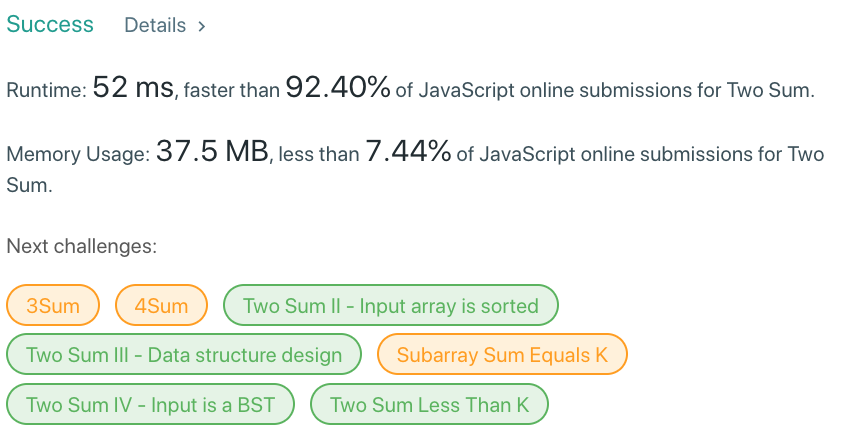
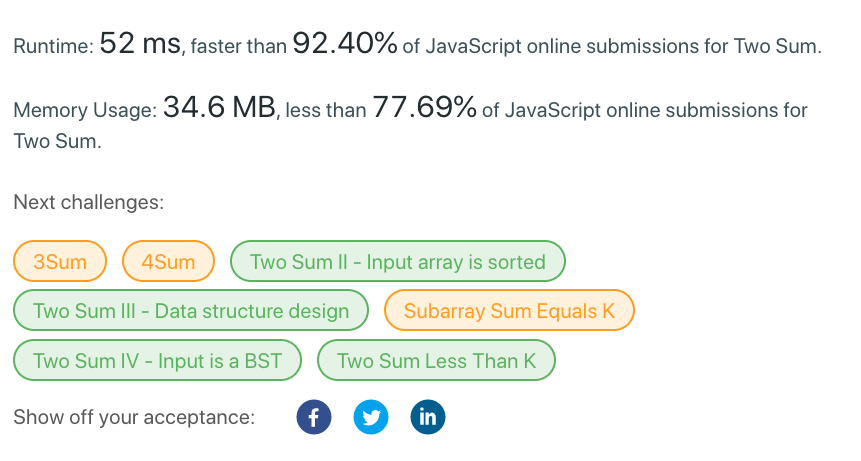
add 1431, adjust two sum

diff --git a/1431.Kids_With_the_Greatest_Number_of_Candies/first.js b/1431.Kids_With_the_Greatest_Number_of_Candies/first.js
@@ -1,0 +1,31 @@
+/**
+ * @param {number[]} candies
+ * @param {number} extraCandies
+ * @return {boolean[]}
+ */
+var kidsWithCandies = function (candies, extraCandies) {
+    const maxNum = candies.reduce((accumulator, currentValue) => {
+        if (currentValue > accumulator) {
+            return currentValue;
+        }
+        return accumulator;
+    }, candies[0]);
+    const answer = [];
+    for (let [index, num] of candies.entries()) {
+        answer.push((num + extraCandies) >= maxNum);
+    }
+
+    return answer;
+};
+
+
+// Should Be [true,true,true,false,true]
+console.log(kidsWithCandies([2, 3, 5, 1, 3], 3));
+// Should Be [true,false,false,false,false]
+console.log(kidsWithCandies([4,2,1,1,2], 1));
+// Should Be [true,false,true]
+console.log(kidsWithCandies([12,1,12], 10));
+
+
+// 1. 先排序由大到小，然後只要大於等於 arr[0]，就算過關，不一定要遍歷也可以得到答案，但是前面就已經為了排序先遍歷一次。
+// 2. 至少遍歷一次全部，然後比較大小，但你前面一開始就沒辦法得知到底誰是最大

diff --git a/1.twoSum/best.js b/1.twoSum/best.js
@@ -1,11 +1,12 @@
-var twoSum = function (nums, targetNum) {
-    let answer = {};
-    for (const [index, num] of nums.entries()) {
-        if(answer[Math.abs(targetNum - num)] > -1){
-            return [answer[targetNum - num], index];
+var twoSum = function (nums, target) {
+    let map = {};
+    for (let i = 0; i < nums.length; i++) {
+        if (map[target - nums[i]] > -1) {
+            return [map[target - nums[i]], i];
         }
-        answer[num] = index;
+        map[nums[i]] = i;
     }
 };
+// console.log(twoSum([2, 7, 11, 15], 9));
+console.log(twoSum([3, 2, 4], 6));
 
-console.log(twoSum([2, 7, 11, 15], 9));

diff --git a/1.twoSum/test.js b/1.twoSum/test.js
@@ -1,0 +1,20 @@
+/**
+ *
+ * @param {number[]} nums
+ * @param {number} target
+ * @returns {number[]}
+ */
+var twoSum = function (nums, target) {
+
+    for (let i = 0; i < nums.length; i++) {
+        let n = target - nums[i];
+        let numsAfterSlice = nums.slice(i + 1);
+        let newIndex = numsAfterSlice.indexOf(n);
+        if (newIndex > -1) {
+            return [(newIndex + 1 + i), i];
+        }
+    }
+};
+// console.log([2, 7, 11, 15].indexOf(7));
+console.log(twoSum([2, 7, 11, 15], 9));
+console.log(twoSum([3, 2, 4], 6));

diff --git a/1431.Kids_With_the_Greatest_Number_of_Candies/empty.js b/1431.Kids_With_the_Greatest_Number_of_Candies/empty.js
@@ -1,0 +1,8 @@
+/**
+ * @param {number[]} candies
+ * @param {number} extraCandies
+ * @return {boolean[]}
+ */
+var kidsWithCandies = function(candies, extraCandies) {
+
+};
